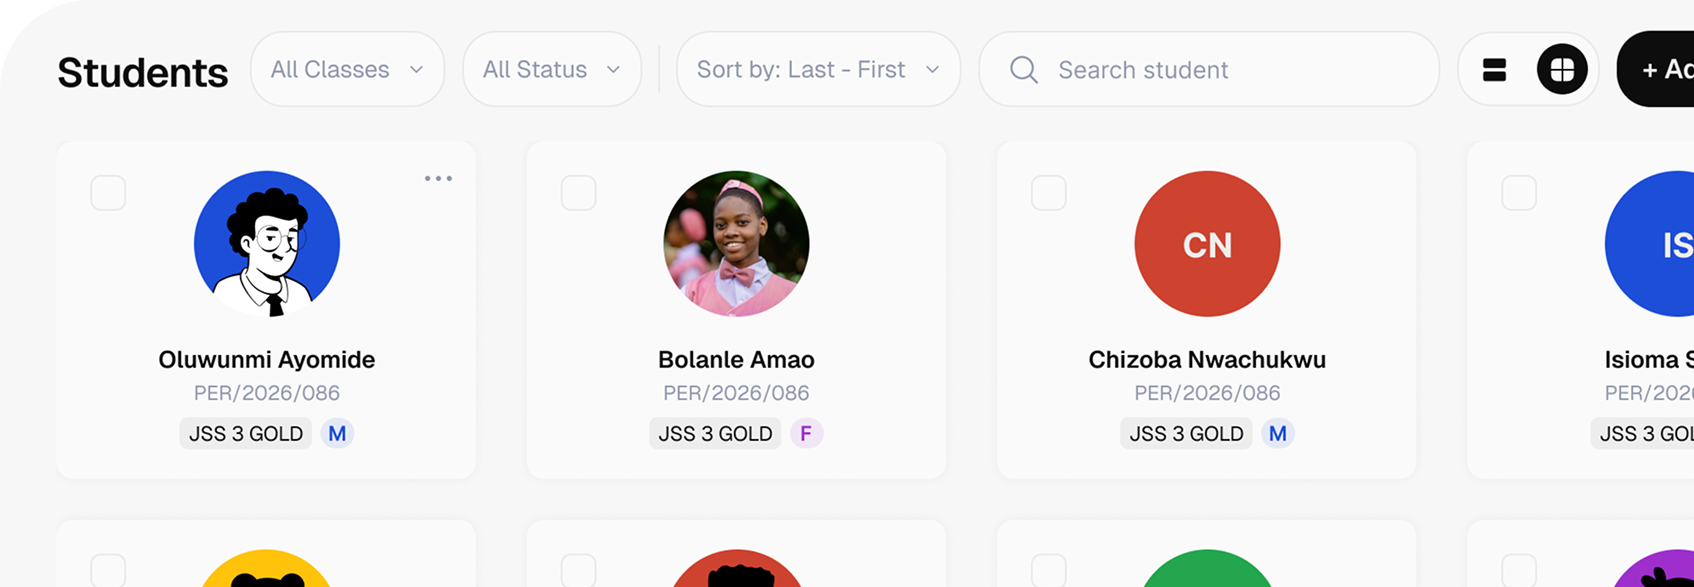
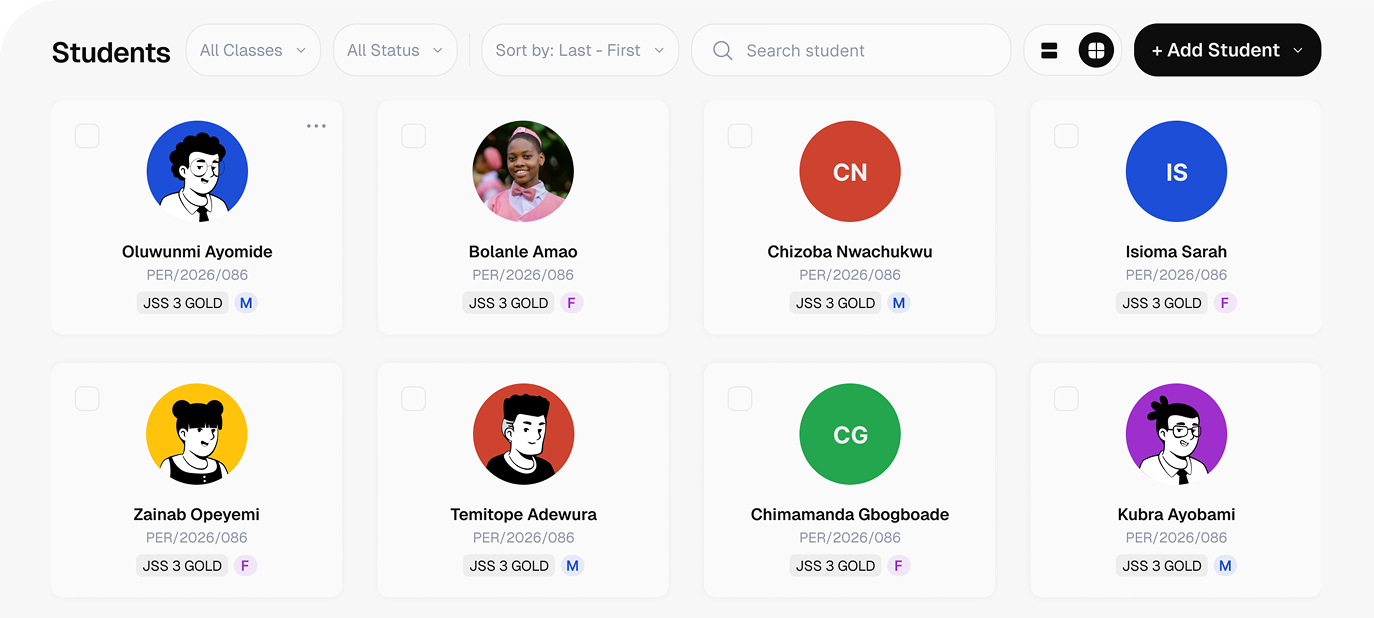
fix: right card same div structure with yellow inner border

diff --git a/src/features/landing/components/ThirdSection.tsx b/src/features/landing/components/ThirdSection.tsx
@@ -15,17 +15,19 @@ export function ThirdSection() {
             Keep student and guardian information organized in one secure place,
             with the right people getting access to the information they need.
           </p>
-          <div className="bg-soma-bg rounded-tl-[30px] right-0 w-[75%] h-55.5 overflow-hidden ml-auto mt-39.75 pl-4.5 pt-4">
-            <Image
-              src="/work1.png"
-              alt="Students dashboard"
-              width={450}
-              height={320}
-              className="w-full h-full rounded-tl-[30px] object-cover object-top-left border-t-10 border-l-10 border-soma-red "
-            />
+          <div className="bg-soma-bg rounded-tl-[30px] right-0 w-full h-full overflow-hidden ml-auto mt-10 pl-4.5 pt-4">
+            <div className="border-t-10 border-l-10 border-soma-red bg-white rounded-tl-[30px]">
+              <Image
+                src="/work1.png"
+                alt="Students dashboard"
+                width={700}
+                height={520}
+                className="h-full w-full rounded-tl-[30px] object-cover object-top-left "
+              />
+            </div>
           </div>
         </div>
- 
+
         {/* Right card - shorter */}
         <div className="flex-1 bg-soma-white-card rounded-[30px] pl-10 pt-[30px] relative overflow-hidden">
           <People variant="Bold" size={28} color="#0D0D0D" className="mb-5" />
@@ -37,13 +39,15 @@ export function ThirdSection() {
             tools that keep everyone on the same page.
           </p>
           <div className="bg-soma-bg rounded-tl-[30px] right-0 w-[75%] h-55.5 overflow-hidden ml-auto mt-39.75 pl-4.5 pt-4">
-            <Image
-              src="/work2.png"
-              alt="Staff management"
-              width={450}
-              height={320}
-              className="w-full h-full rounded-tl-[30px] object-cover object-top-left border-t-10 border-l-10 border-yellow-400"
-            />
+            <div className="border-t-10 border-l-10 border-yellow-400 bg-white rounded-tl-[30px]">
+              <Image
+                src="/work2.png"
+                alt="Staff management"
+                width={700}
+                height={520}
+                className="w-full h-full rounded-tl-[30px] object-cover object-top-left"
+              />
+            </div>
           </div>
         </div>
       </div>
